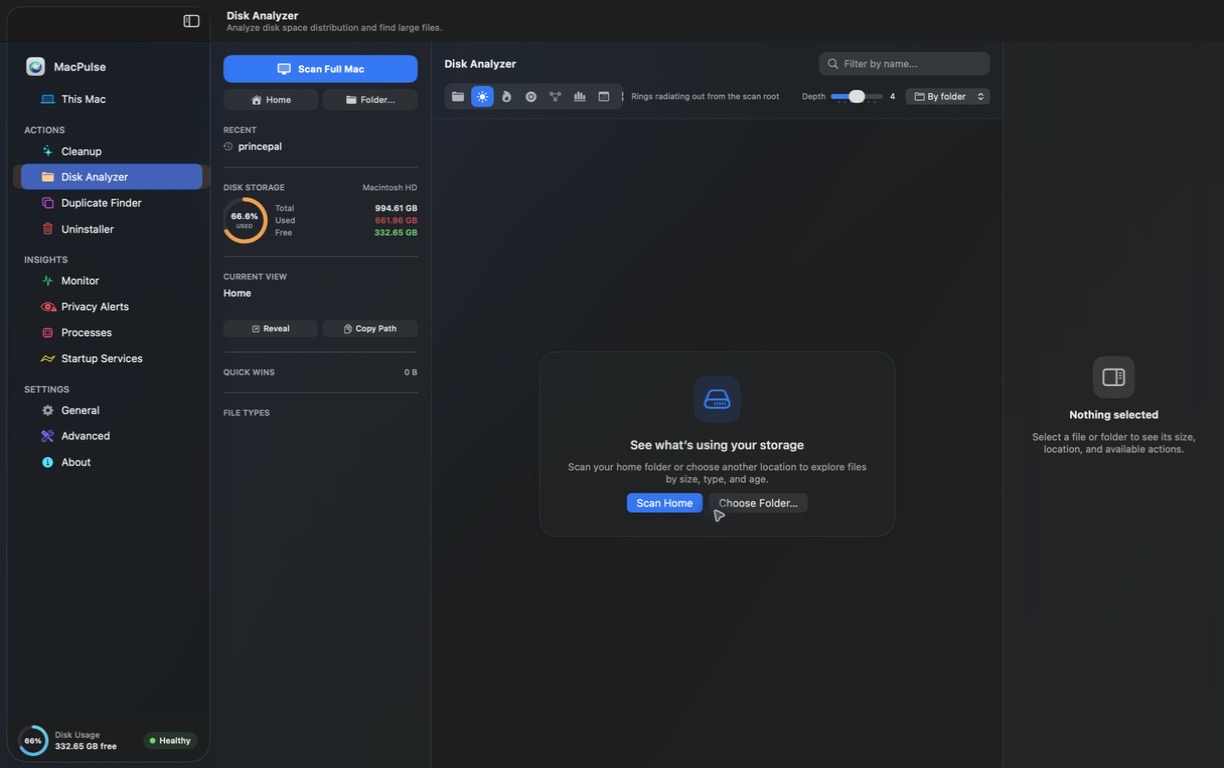
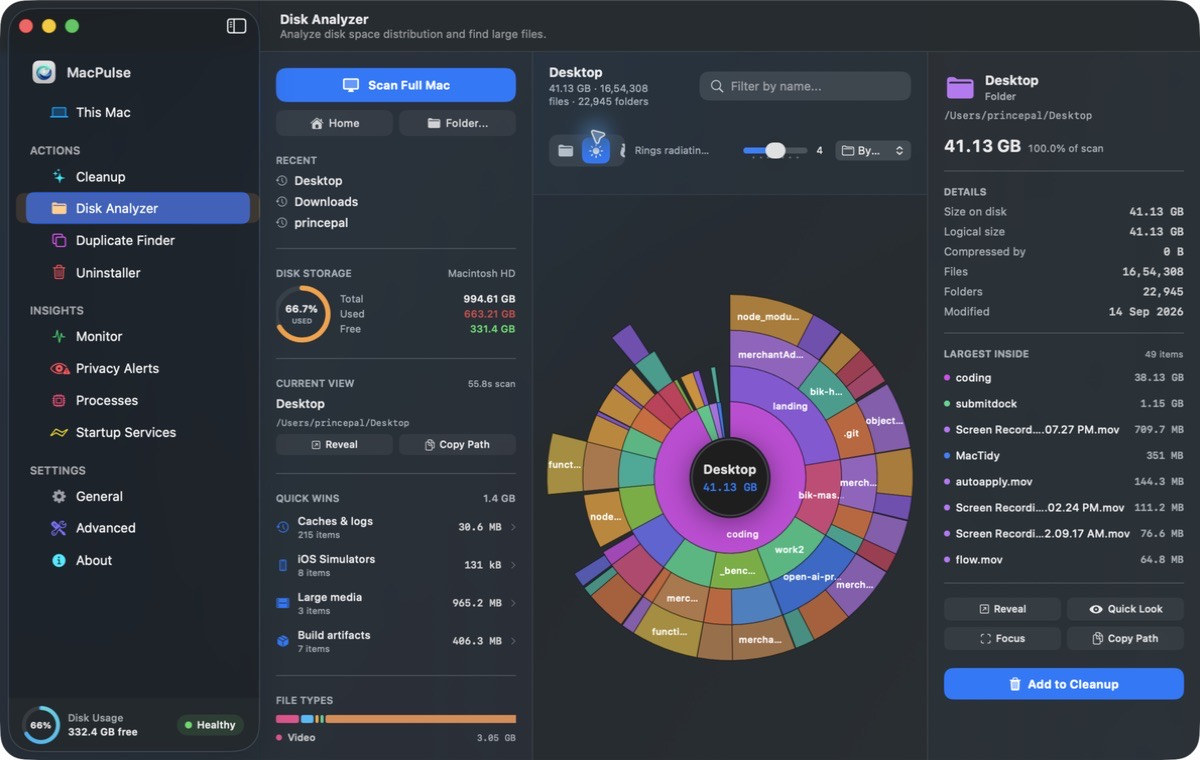
Fix Sunburst recursive slice math and upgrade dark palette
- Fix SunburstLayout child recursion to scale proportionally within parent wedge
- Fix text label collision by enforcing arc length thresholds and text truncation
- Replace washed-out light pastels with 16 vibrant dark-mode jewel hues in DiskPalette
- Add Desktop and Downloads shortcuts to recent scans in Disk Analyzer
- Add AppDelegate reopen handler to bring key window forward
- Update Disk Space screenshots across landing page, pages-dist, and SubmitDock

diff --git a/MacPulse/Features/DiskAnalyzer/DiskSunburstView.swift b/MacPulse/Features/DiskAnalyzer/DiskSunburstView.swift
@@ -12,40 +12,65 @@ struct SunburstLayout {
         var sweep: Double { endAngle - startAngle }
     }
 
-    /// Below this a wedge is a hairline nobody can hit — drop it and its subtree.
-    private static let minimumSweep: Double = .pi / 180 * 1.0
+    /// Below this angle (~1.5 degrees) a wedge is too narrow to be visible or interactive
+    private static let minimumSweep: Double = .pi / 180 * 1.5
 
     static func slices(for root: DiskItem, maxDepth: Int = 4) -> [Slice] {
         var result: [Slice] = []
-        appendRing(children: root.children ?? [], parentSize: root.size, depth: 1, from: -.pi / 2, maxDepth: maxDepth, into: &result)
+        guard root.size > 0, let children = root.children, !children.isEmpty else { return result }
+
+        appendRing(
+            children: children,
+            depth: 1,
+            startAngle: -.pi / 2,
+            availableSweep: 2 * .pi,
+            parentAllocatedSize: root.size,
+            maxDepth: maxDepth,
+            into: &result
+        )
         return result
     }
 
     private static func appendRing(
         children: [DiskItem],
-        parentSize: Int64,
         depth: Int,
-        from startAngle: Double,
+        startAngle: Double,
+        availableSweep: Double,
+        parentAllocatedSize: Int64,
         maxDepth: Int,
         into result: inout [Slice]
     ) {
-        guard depth <= maxDepth, parentSize > 0 else { return }
+        guard depth <= maxDepth, parentAllocatedSize > 0, availableSweep >= minimumSweep else { return }
 
-        var angle = startAngle
-        for child in children where child.size > 0 {
-            let sweep = 2 * .pi * Double(child.size) / Double(parentSize)
+        // Sort children by size descending for clean, readable hierarchy
+        let sortedChildren = children.filter { $0.size > 0 }.sorted { $0.size > $1.size }
+        let totalChildSize = sortedChildren.reduce(0) { $0 + $1.size }
+        guard totalChildSize > 0 else { return }
+
+        // The parent allocated size is used as the denominator so children proportionally fill the parent's wedge
+        let denominator = Double(max(totalChildSize, parentAllocatedSize))
+
+        var currentAngle = startAngle
+        for child in sortedChildren {
+            let fraction = Double(child.size) / denominator
+            let sweep = availableSweep * fraction
             guard sweep >= minimumSweep else { continue }
 
-            result.append(Slice(item: child, depth: depth, startAngle: angle, endAngle: angle + sweep))
-            appendRing(
-                children: child.children ?? [],
-                parentSize: child.size,
-                depth: depth + 1,
-                from: angle,
-                maxDepth: maxDepth,
-                into: &result
-            )
-            angle += sweep
+            let endAngle = currentAngle + sweep
+            result.append(Slice(item: child, depth: depth, startAngle: currentAngle, endAngle: endAngle))
+
+            if let subChildren = child.children, !subChildren.isEmpty {
+                appendRing(
+                    children: subChildren,
+                    depth: depth + 1,
+                    startAngle: currentAngle,
+                    availableSweep: sweep,
+                    parentAllocatedSize: child.size,
+                    maxDepth: maxDepth,
+                    into: &result
+                )
+            }
+            currentAngle = endAngle
         }
     }
 }
@@ -120,23 +145,31 @@ public struct DiskSunburstView: View {
         let focus = hovered ?? selectedItem ?? root
         return ZStack {
             Circle()
-                .fill(Color(nsColor: .windowBackgroundColor))
+                .fill(Color(nsColor: .windowBackgroundColor).opacity(0.94))
                 .overlay(
-                    Circle().stroke(Color.primary.opacity(0.12), lineWidth: 1)
+                    Circle().stroke(Color.white.opacity(0.16), lineWidth: 1.5)
                 )
+                .shadow(color: Color.black.opacity(0.55), radius: 14, x: 0, y: 4)
 
             VStack(spacing: 3) {
                 Text(focus.name.isEmpty ? "/" : focus.name)
-                    .font(.system(size: 12, weight: .bold, design: .rounded))
+                    .font(.system(size: 13, weight: .bold, design: .rounded))
                     .foregroundStyle(Color.primary)
                     .lineLimit(1)
                     .truncationMode(.middle)
 
                 Text(FileManager.formatSize(focus.size))
-                    .font(.system(size: 10, weight: .medium, design: .monospaced))
-                    .foregroundStyle(Color.secondary)
+                    .font(.system(size: 11, weight: .semibold, design: .monospaced))
+                    .foregroundStyle(Color.accentColor)
+
+                if focus.id != root.id {
+                    let percent = root.size > 0 ? Double(focus.size) / Double(root.size) * 100 : 0
+                    Text(String(format: "%.1f%%", percent))
+                        .font(.system(size: 9.5, weight: .medium, design: .rounded))
+                        .foregroundStyle(Color.secondary)
+                }
             }
-            .padding(6)
+            .padding(8)
         }
         .frame(width: metrics.innerRadius * 1.9, height: metrics.innerRadius * 1.9)
         .position(metrics.center)
@@ -171,24 +204,48 @@ public struct DiskSunburstView: View {
         let isHovered = hovered?.id == slice.item.id
         let isSelected = selectedItem?.id == slice.item.id
 
-        context.fill(path, with: .color(base.opacity(isHovered ? 0.95 : 0.70)))
-        context.stroke(path, with: .color(Color.black.opacity(0.15)), lineWidth: 0.5)
+        let depthOpacity: Double = {
+            switch slice.depth {
+            case 1: return 0.90
+            case 2: return 0.82
+            case 3: return 0.74
+            default: return 0.65
+            }
+        }()
+
+        context.fill(path, with: .color(base.opacity(isHovered ? 1.0 : depthOpacity)))
+        context.stroke(path, with: .color(Color.black.opacity(0.40)), lineWidth: 1.0)
+
         if isSelected {
-            context.stroke(path, with: .color(Color.accentColor), lineWidth: 2.5)
+            context.stroke(path, with: .color(Color.white), lineWidth: 2.5)
+        } else if isHovered {
+            context.stroke(path, with: .color(Color.white.opacity(0.85)), lineWidth: 1.5)
         }
 
-        // Draw text label on sufficiently large wedges
-        if slice.sweep > .pi / 8, (radii.outer - radii.inner) > 16 {
-            let mid = (slice.startAngle + slice.endAngle) / 2
-            let radius = (radii.inner + radii.outer) / 2
+        // Draw text label on sufficiently large wedges without colliding
+        let midRadius = (radii.inner + radii.outer) / 2
+        let arcLength = midRadius * slice.sweep
+        let ringThickness = radii.outer - radii.inner
+
+        if slice.sweep >= (.pi / 180 * 15), arcLength >= 48, ringThickness >= 16 {
+            let midAngle = (slice.startAngle + slice.endAngle) / 2
             let point = CGPoint(
-                x: metrics.center.x + cos(mid) * radius,
-                y: metrics.center.y + sin(mid) * radius
+                x: metrics.center.x + cos(midAngle) * midRadius,
+                y: metrics.center.y + sin(midAngle) * midRadius
             )
+
+            let charLimit = max(3, Int(arcLength / 7.0) - 2)
+            let displayName: String
+            if slice.item.name.count > charLimit {
+                displayName = String(slice.item.name.prefix(charLimit)) + "…"
+            } else {
+                displayName = slice.item.name
+            }
+
             let label = context.resolve(
-                Text(slice.item.name)
-                    .font(.system(size: 9, weight: .medium))
-                    .foregroundStyle(Color.primary.opacity(0.85))
+                Text(displayName)
+                    .font(.system(size: 9.5, weight: .semibold, design: .rounded))
+                    .foregroundStyle(Color.white.opacity(0.95))
             )
             context.draw(label, at: point, anchor: .center)
         }

diff --git a/MacPulse/Features/DiskAnalyzer/DiskPalette.swift b/MacPulse/Features/DiskAnalyzer/DiskPalette.swift
@@ -25,22 +25,31 @@ public enum ColoringMode: String, CaseIterable, Identifiable, Sendable {
     }
 }
 
-/// Disk visualization palette providing pastel and categorized hues
-/// that match the DiskBuddy paper / warm UI style.
+/// Disk visualization palette providing vibrant, high-contrast, dark-mode native hues
+/// tuned for modern macOS Liquid Glass and dark backgrounds.
 public enum DiskPalette {
-    // Pastel folder tones (soft sage, sky, lavender, peach, sand, rose, mint, wheat)
-    public static let pastelFolderColors: [Color] = [
-        Color(red: 0.93, green: 0.82, blue: 0.76), // Peach / Sand
-        Color(red: 0.80, green: 0.87, blue: 0.94), // Soft Sky
-        Color(red: 0.82, green: 0.88, blue: 0.82), // Soft Sage
-        Color(red: 0.94, green: 0.83, blue: 0.88), // Blush / Rose
-        Color(red: 0.88, green: 0.85, blue: 0.93), // Lavender
-        Color(red: 0.95, green: 0.90, blue: 0.78), // Wheat
-        Color(red: 0.78, green: 0.90, blue: 0.88), // Mint
-        Color(red: 0.90, green: 0.86, blue: 0.80), // Warm Khaki
-        Color(red: 0.85, green: 0.88, blue: 0.95), // Periwinkle
-        Color(red: 0.95, green: 0.86, blue: 0.82)  // Coral Pastel
+    // 16 rich, vibrant, high-contrast hues with distinct chromatic separation
+    public static let folderColors: [Color] = [
+        Color(red: 0.17, green: 0.50, blue: 1.00), // Sapphire Blue
+        Color(red: 0.00, green: 0.78, blue: 0.68), // Bright Teal
+        Color(red: 0.62, green: 0.38, blue: 0.98), // Electric Violet
+        Color(red: 0.98, green: 0.64, blue: 0.12), // Warm Amber
+        Color(red: 0.94, green: 0.28, blue: 0.52), // Neon Rose
+        Color(red: 0.12, green: 0.74, blue: 0.96), // Vivid Cyan
+        Color(red: 0.48, green: 0.80, blue: 0.18), // Crisp Lime
+        Color(red: 0.98, green: 0.46, blue: 0.20), // Sunset Orange
+        Color(red: 0.42, green: 0.44, blue: 0.98), // Royal Indigo
+        Color(red: 0.86, green: 0.28, blue: 0.92), // Radiant Magenta
+        Color(red: 0.16, green: 0.84, blue: 0.56), // Emerald Mint
+        Color(red: 0.88, green: 0.56, blue: 0.30), // Warm Ochre
+        Color(red: 0.28, green: 0.62, blue: 0.96), // Sky Azure
+        Color(red: 0.92, green: 0.22, blue: 0.38), // Crimson Ruby
+        Color(red: 0.94, green: 0.76, blue: 0.14), // Golden Topaz
+        Color(red: 0.74, green: 0.46, blue: 0.96)  // Lavender Flame
     ]
+
+    // Backwards-compatible alias for existing references
+    public static var pastelFolderColors: [Color] { folderColors }
 
     public static func color(for item: DiskItem, mode: ColoringMode = .byFolder) -> Color {
         switch mode {
@@ -55,8 +64,13 @@ public enum DiskPalette {
 
     public static func folderColor(for item: DiskItem) -> Color {
         let key = item.isDirectory ? item.name : item.url.deletingLastPathComponent().lastPathComponent
-        let index = abs(key.hashValue) % pastelFolderColors.count
-        return pastelFolderColors[index]
+        // djb2 hash distribution ensures adjacent directories receive diverse hues
+        var hash: UInt = 5381
+        for byte in key.utf8 {
+            hash = ((hash << 5) &+ hash) &+ UInt(byte)
+        }
+        let index = Int(hash % UInt(folderColors.count))
+        return folderColors[index]
     }
 
     public static func typeColor(for item: DiskItem) -> Color {
@@ -68,13 +82,13 @@ public enum DiskPalette {
 
     public static func typeColor(for category: FileCategory) -> Color {
         switch category {
-        case .video: return Color(red: 0.92, green: 0.45, blue: 0.60) // Rose / Video
-        case .audio: return Color(red: 0.60, green: 0.50, blue: 0.88) // Purple / Audio
-        case .photo: return Color(red: 0.45, green: 0.75, blue: 0.95) // Cyan / Image
-        case .docs: return Color(red: 0.95, green: 0.68, blue: 0.35)  // Amber / Doc
-        case .apps: return Color(red: 0.40, green: 0.78, blue: 0.65)  // Green / Dev & Apps
-        case .archives: return Color(red: 0.75, green: 0.60, blue: 0.45)// Brown / Archive
-        case .all: return Color.gray.opacity(0.6)
+        case .video: return Color(red: 0.94, green: 0.28, blue: 0.55) // Vibrant Rose / Video
+        case .audio: return Color(red: 0.62, green: 0.40, blue: 0.98) // Electric Purple / Audio
+        case .photo: return Color(red: 0.12, green: 0.74, blue: 0.98) // Cyan Blue / Photo
+        case .docs: return Color(red: 0.98, green: 0.66, blue: 0.14)  // Amber Gold / Docs
+        case .apps: return Color(red: 0.16, green: 0.82, blue: 0.58)  // Emerald / Apps
+        case .archives: return Color(red: 0.88, green: 0.54, blue: 0.30)// Ochre / Archives
+        case .all: return Color(white: 0.55)
         }
     }
 
@@ -83,15 +97,15 @@ public enum DiskPalette {
         let days = Calendar.current.dateComponents([.day], from: date, to: Date()).day ?? 0
         switch days {
         case 0...7:
-            return Color(red: 0.40, green: 0.72, blue: 0.55) // Fresh green
+            return Color(red: 0.16, green: 0.82, blue: 0.56) // Recent (< 1 week): Fresh Mint
         case 8...30:
-            return Color(red: 0.55, green: 0.75, blue: 0.85) // Cool blue
+            return Color(red: 0.14, green: 0.72, blue: 0.96) // 1 Month: Vivid Cyan
         case 31...90:
-            return Color(red: 0.95, green: 0.75, blue: 0.45) // Tan / yellow
+            return Color(red: 0.98, green: 0.74, blue: 0.14) // 3 Months: Amber Gold
         case 91...365:
-            return Color(red: 0.92, green: 0.58, blue: 0.38) // Warm orange
+            return Color(red: 0.98, green: 0.46, blue: 0.20) // 1 Year: Sunset Orange
         default:
-            return Color(red: 0.88, green: 0.42, blue: 0.42) // Old rust / red
+            return Color(red: 0.92, green: 0.26, blue: 0.36) // Older: Ruby Red
         }
     }
 }

diff --git a/MacPulse/MacPulseTests/DiskScannerTests.swift b/MacPulse/MacPulseTests/DiskScannerTests.swift
@@ -346,4 +346,48 @@ final class DiskScannerTests: XCTestCase {
         viewModel.startScan(for: tempDir)
         XCTAssertFalse(viewModel.isBuildingAgeReport)
     }
+    // MARK: - Sunburst & Palette Tests
+
+    func testSunburstLayout_childSlicesStayWithinParentArc() {
+        let rootURL = URL(fileURLWithPath: "/test/root")
+        let sub1 = DiskItem(url: rootURL.appendingPathComponent("A/sub1"), name: "sub1", isDirectory: false, size: 50, fileCount: 1, fileType: .all)
+        let sub2 = DiskItem(url: rootURL.appendingPathComponent("A/sub2"), name: "sub2", isDirectory: false, size: 50, fileCount: 1, fileType: .all)
+        let childA = DiskItem(url: rootURL.appendingPathComponent("A"), name: "A", isDirectory: true, size: 100, fileCount: 2, children: [sub1, sub2], fileType: .all)
+        let childB = DiskItem(url: rootURL.appendingPathComponent("B"), name: "B", isDirectory: true, size: 100, fileCount: 1, children: [], fileType: .all)
+        let root = DiskItem(url: rootURL, name: "root", isDirectory: true, size: 200, fileCount: 3, children: [childA, childB], fileType: .all)
+
+        let slices = SunburstLayout.slices(for: root, maxDepth: 3)
+        XCTAssertFalse(slices.isEmpty)
+
+        // Find childA slice
+        guard let sliceA = slices.first(where: { $0.item.name == "A" }) else {
+            XCTFail("Missing slice for A")
+            return
+        }
+
+        // Sub1 and Sub2 must be depth 2 and strictly within sliceA's angular bounds
+        let sub1Slice = slices.first { $0.item.name == "sub1" }
+        let sub2Slice = slices.first { $0.item.name == "sub2" }
+
+        XCTAssertNotNil(sub1Slice)
+        XCTAssertNotNil(sub2Slice)
+
+        if let s1 = sub1Slice, let s2 = sub2Slice {
+            XCTAssertEqual(s1.depth, 2)
+            XCTAssertEqual(s2.depth, 2)
+            XCTAssertGreaterThanOrEqual(s1.startAngle, sliceA.startAngle - 0.0001)
+            XCTAssertLessThanOrEqual(s1.endAngle, s2.startAngle + 0.0001)
+            XCTAssertLessThanOrEqual(s2.endAngle, sliceA.endAngle + 0.0001)
+        }
+    }
+
+    func testSunburstLayout_paletteColorsAreDistinctAndVibrant() {
+        XCTAssertGreaterThanOrEqual(DiskPalette.folderColors.count, 10)
+        let item1 = DiskItem(url: URL(fileURLWithPath: "/test/docs"), name: "Documents", isDirectory: true, size: 100, fileCount: 1, fileType: .docs)
+        let item2 = DiskItem(url: URL(fileURLWithPath: "/test/downloads"), name: "Downloads", isDirectory: true, size: 100, fileCount: 1, fileType: .all)
+        let c1 = DiskPalette.folderColor(for: item1)
+        let c2 = DiskPalette.folderColor(for: item2)
+        XCTAssertNotNil(c1)
+        XCTAssertNotNil(c2)
+    }
 }

diff --git a/MacPulse/App/MacPulseApp.swift b/MacPulse/App/MacPulseApp.swift
@@ -18,8 +18,26 @@ struct MacPulseLogo: View {
 }
 
 class AppDelegate: NSObject, NSApplicationDelegate {
+    func applicationDidFinishLaunching(_ notification: Notification) {
+        NSApp.setActivationPolicy(.regular)
+        NSApp.activate(ignoringOtherApps: true)
+        for window in NSApp.windows where window.canBecomeMain {
+            window.makeKeyAndOrderFront(nil)
+        }
+    }
+
     func applicationShouldTerminateAfterLastWindowClosed(_ sender: NSApplication) -> Bool {
         return false // stay resident in menu bar (Monitor keeps running)
+    }
+
+    func applicationShouldHandleReopen(_ sender: NSApplication, hasVisibleWindows flag: Bool) -> Bool {
+        if !flag {
+            for window in sender.windows where window.canBecomeMain {
+                window.makeKeyAndOrderFront(nil)
+                return true
+            }
+        }
+        return true
     }
 }
 

diff --git a/MacPulse/Features/DiskAnalyzer/DiskAnalyzerViewModel.swift b/MacPulse/Features/DiskAnalyzer/DiskAnalyzerViewModel.swift
@@ -108,7 +108,11 @@ public final class DiskAnalyzerViewModel {
     public var depth: Int = 4
     public var topSizesTab: TopSizesTab = .inThisFolder
     public var scanDurationSeconds: Double = 0
-    public var recentScans: [URL] = [FileManager.default.homeDirectoryForCurrentUser]
+    public var recentScans: [URL] = [
+        FileManager.default.homeDirectoryForCurrentUser.appendingPathComponent("Desktop"),
+        FileManager.default.homeDirectoryForCurrentUser.appendingPathComponent("Downloads"),
+        FileManager.default.homeDirectoryForCurrentUser
+    ]
     public var stageNotificationMessage: String?
     public private(set) var scanErrorMessage: String?
 
